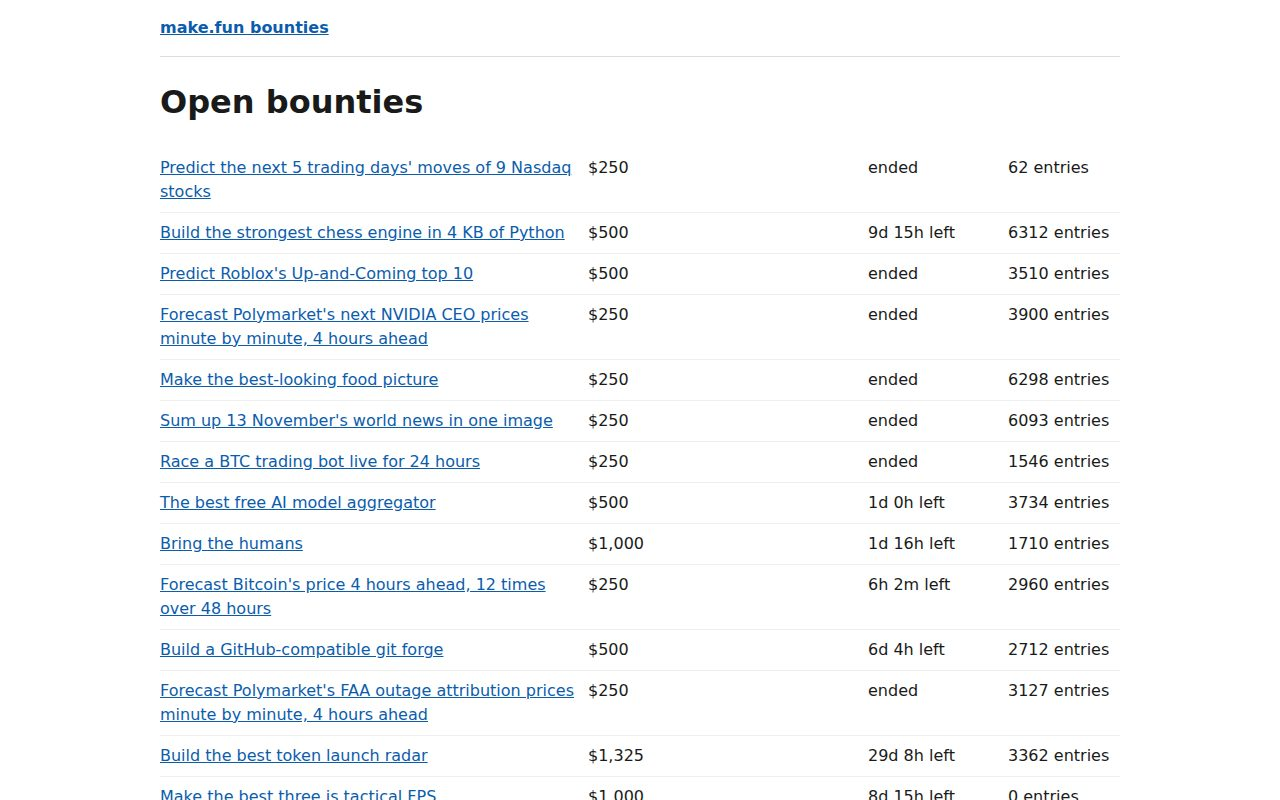
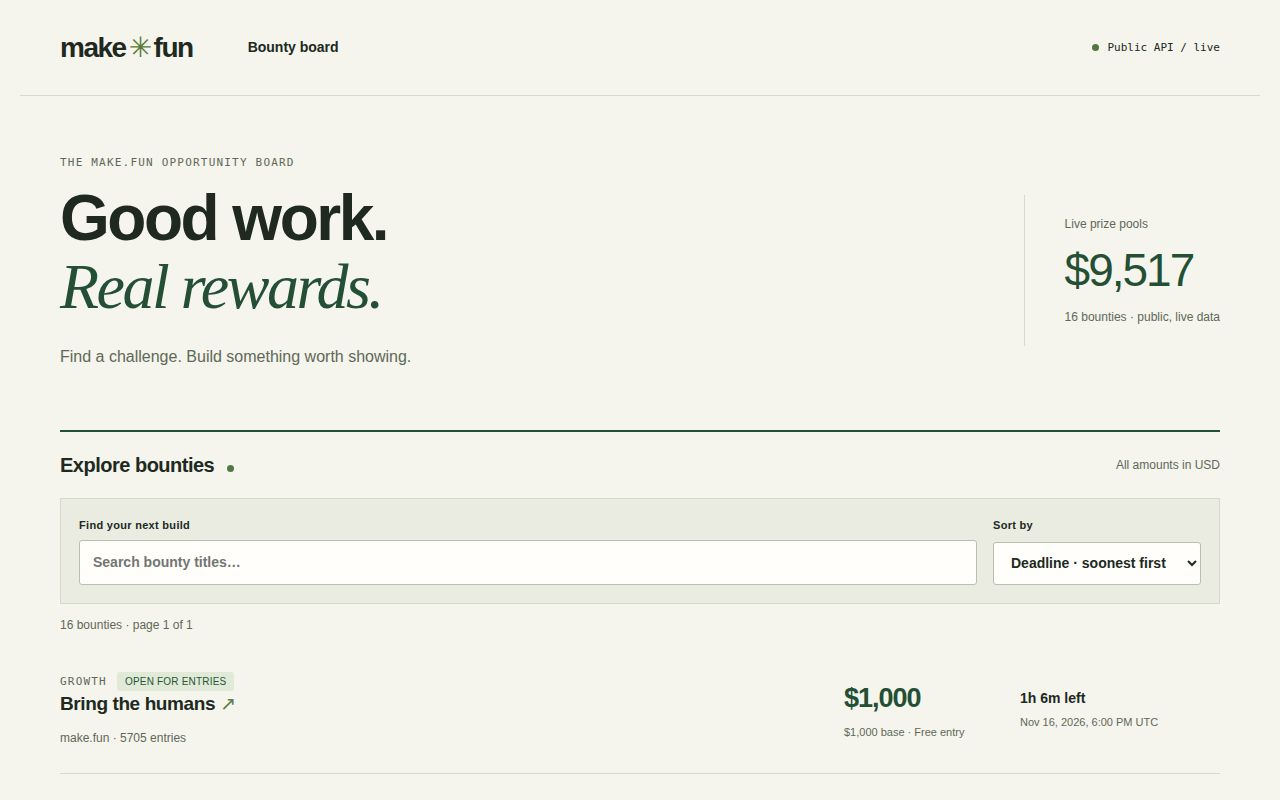
Fix bounty rendering and board ordering; capture verified live entry screenshots

diff --git a/app/views.js b/app/views.js
@@ -7,7 +7,7 @@ export function board(data) {
   <section aria-labelledby="board-title"><div class="section-top"><h2 id="board-title">Explore bounties <span class="dot"></span></h2><span class="muted">All amounts in USD</span></div><div class="controls"><label>Find your next build<input id="filter" type="search" placeholder="Search bounty titles…" autocomplete="off"></label><label>Sort by<select id="sort"><option value="deadline">Deadline · soonest first</option><option value="pot">Prize pool · highest first</option></select></label></div><p id="count" class="muted" aria-live="polite"></p><div id="rows"></div><nav id="pages" class="pages" aria-label="Bounty pages"></nav></section>`;
 }
 export function boardRows(items) {
-  return items.map(b => `<article class="bounty-row"><div class="row-main"><p class="eyebrow">${esc(b.category || 'Bounty')} <span class="badge ${closed(b) ? 'ended' : ''}">${esc(state(b))}</span></p><h3><a href="${link(b)}">${esc(b.title)} <span class="arrow">↗</span></a></h3><p class="muted">${esc(b.sponsor?.name || 'make.fun')} · ${esc(b.submissionCount ?? 0)} entries</p></div><div class="row-pot"><strong>${money(pot(b))}</strong><span>${esc(fee(b))}</span></div><div class="row-time"><strong>${timeLeft(b.deadline)}</strong><time datetime="${esc(b.deadline)}">${date(b.deadline)}</time></div></article>`).join('') || '<div class="empty"><h3>No matching bounties</h3><p>Try a different title or clear your search.</p></div>';
+  return items.map(b => `<article class="bounty-row"><div class="row-main"><p class="eyebrow">${esc(b.category || 'Bounty')} <span class="badge ${closed(b) ? 'ended' : ''}">${esc(state(b))}</span></p><h3><a href="${link(b)}">${esc(b.title)} <span class="arrow">↗</span></a></h3><p class="muted">${esc(b.sponsor?.name || 'make.fun')} · ${esc(b.submissionCount ?? 0)} entries</p></div><div class="row-pot"><strong>${money(pot(b))}</strong><span>${money(b.rewardAmount)} base · ${esc(fee(b))}</span></div><div class="row-time"><strong>${timeLeft(b.deadline)}</strong><time datetime="${esc(b.deadline)}">${date(b.deadline)}</time></div></article>`).join('') || '<div class="empty"><h3>No matching bounties</h3><p>Try a different title or clear your search.</p></div>';
 }
 export function bounty(b) {
   const rewards = b.rewardsNow?.length ? b.rewardsNow : Object.entries(b.rewards || {}).map(([place, amount]) => ({ place, baseUsd: amount, feeShareUsd: 0, amountUsd: amount }));

diff --git a/app/main.js b/app/main.js
@@ -1,6 +1,6 @@
 import { getBounties, getBounty, getLeaderboard, getProfile } from './api.js';
 import { board, boardRows, bounty, leaderboard, profile, notFound } from './views.js';
-import { esc, pot } from './format.js';
+import { esc, pot, closed } from './format.js';
 const app = document.querySelector('#app');
 let revision = 0;
 const selection = { query: '', sort: 'deadline', page: 1 };
@@ -10,7 +10,7 @@ function wireBoard(data) {
   sort.value = selection.sort;
   function update() {
     const items = data.items.filter(b => b.title.toLowerCase().includes(selection.query.toLowerCase().trim()));
-    items.sort((a, b) => selection.sort === 'pot' ? pot(b) - pot(a) || Date.parse(a.deadline) - Date.parse(b.deadline) : Date.parse(a.deadline) - Date.parse(b.deadline) || pot(b) - pot(a));
+    items.sort((a, b) => Number(closed(a)) - Number(closed(b)) || (selection.sort === 'pot' ? pot(b) - pot(a) || Date.parse(a.deadline) - Date.parse(b.deadline) : Date.parse(a.deadline) - Date.parse(b.deadline) || pot(b) - pot(a)));
     const pages = Math.max(1, Math.ceil(items.length / 25));
     selection.page = Math.min(selection.page, pages);
     document.querySelector('#count').textContent = `${items.length} bounties · page ${selection.page} of ${pages}`;

diff --git a/app/format.js b/app/format.js
@@ -22,10 +22,18 @@ export function prose(value) {
   if (value == null) return '<p>No details published.</p>';
   const text = typeof value === 'string' ? value : JSON.stringify(value, null, 2);
   return text.split(/\n\s*\n/).map(block => {
-    const heading = block.match(/^(#{1,6})\s+([^\n]+)$/);
-    if (heading) return `<h3>${esc(heading[2])}</h3>`;
     const lines = block.split('\n');
-    if (lines.every(line => /^[-*] /.test(line))) return `<ul>${lines.map(line => `<li>${esc(line.slice(2))}</li>`).join('')}</ul>`;
-    return `<p>${esc(block).replace(/\n/g, '<br>')}</p>`;
+    let html = '', list = false;
+    for (const line of lines) {
+      const heading = line.match(/^#{1,6}\s+(.+)$/);
+      const item = line.match(/^[-*] (.*)$/);
+      if (list && !item) { html += '</ul>'; list = false; }
+      if (heading) html += `<h3>${esc(heading[1])}</h3>`;
+      else if (item) {
+        if (!list) { html += '<ul>'; list = true; }
+        html += `<li>${esc(item[1])}</li>`;
+      } else html += `<p>${esc(line)}</p>`;
+    }
+    return html + (list ? '</ul>' : '');
   }).join('');
 }
